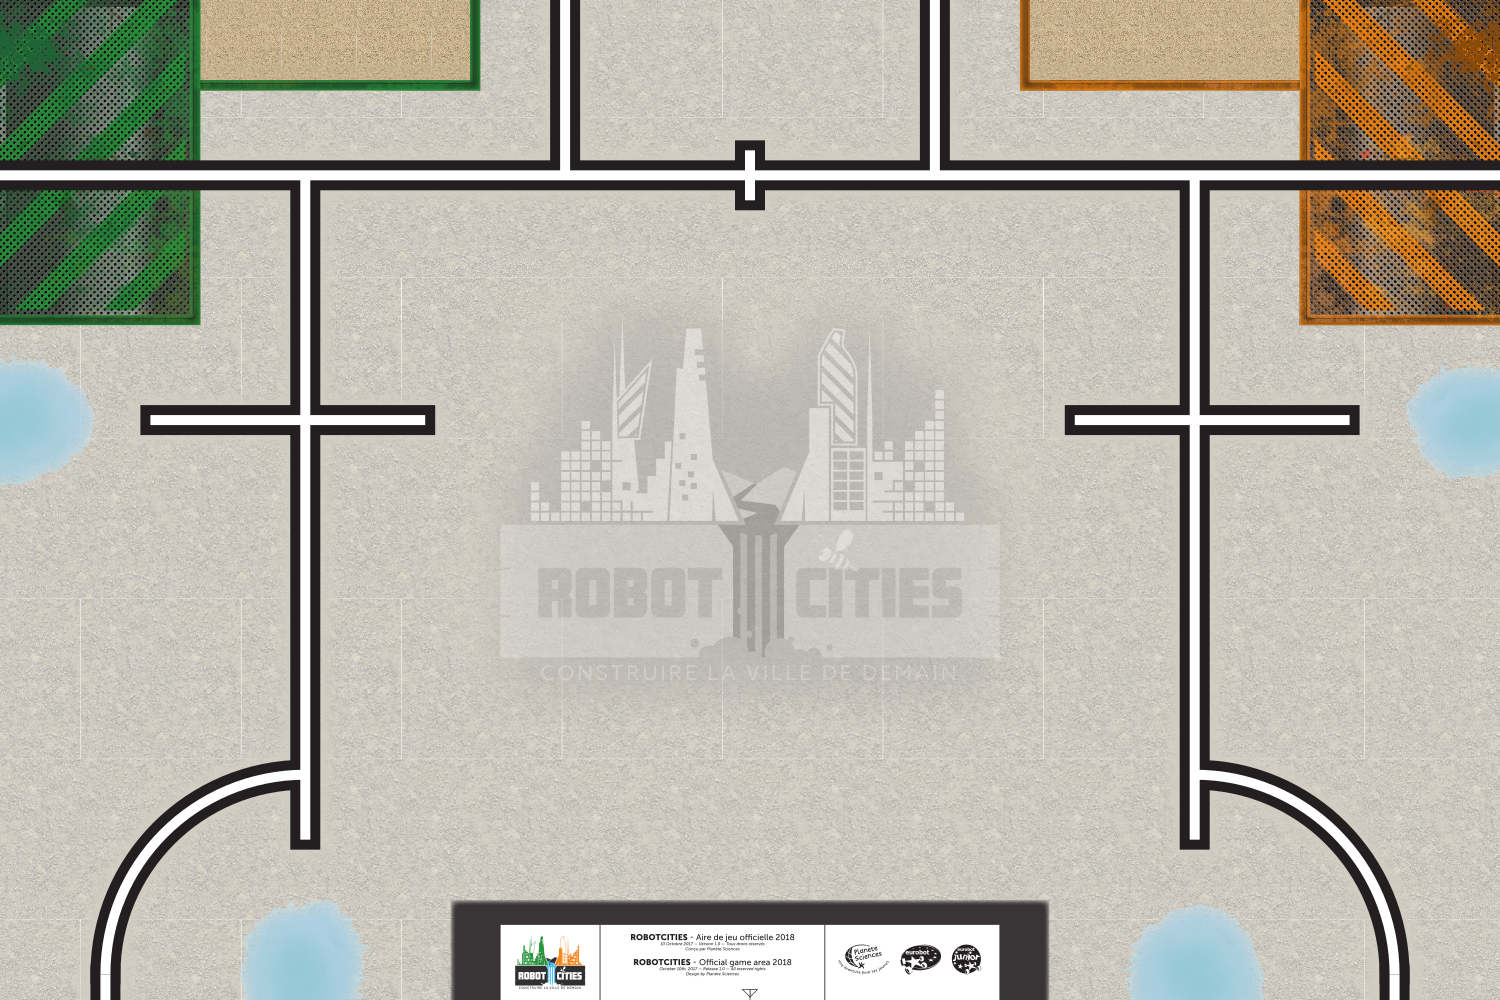
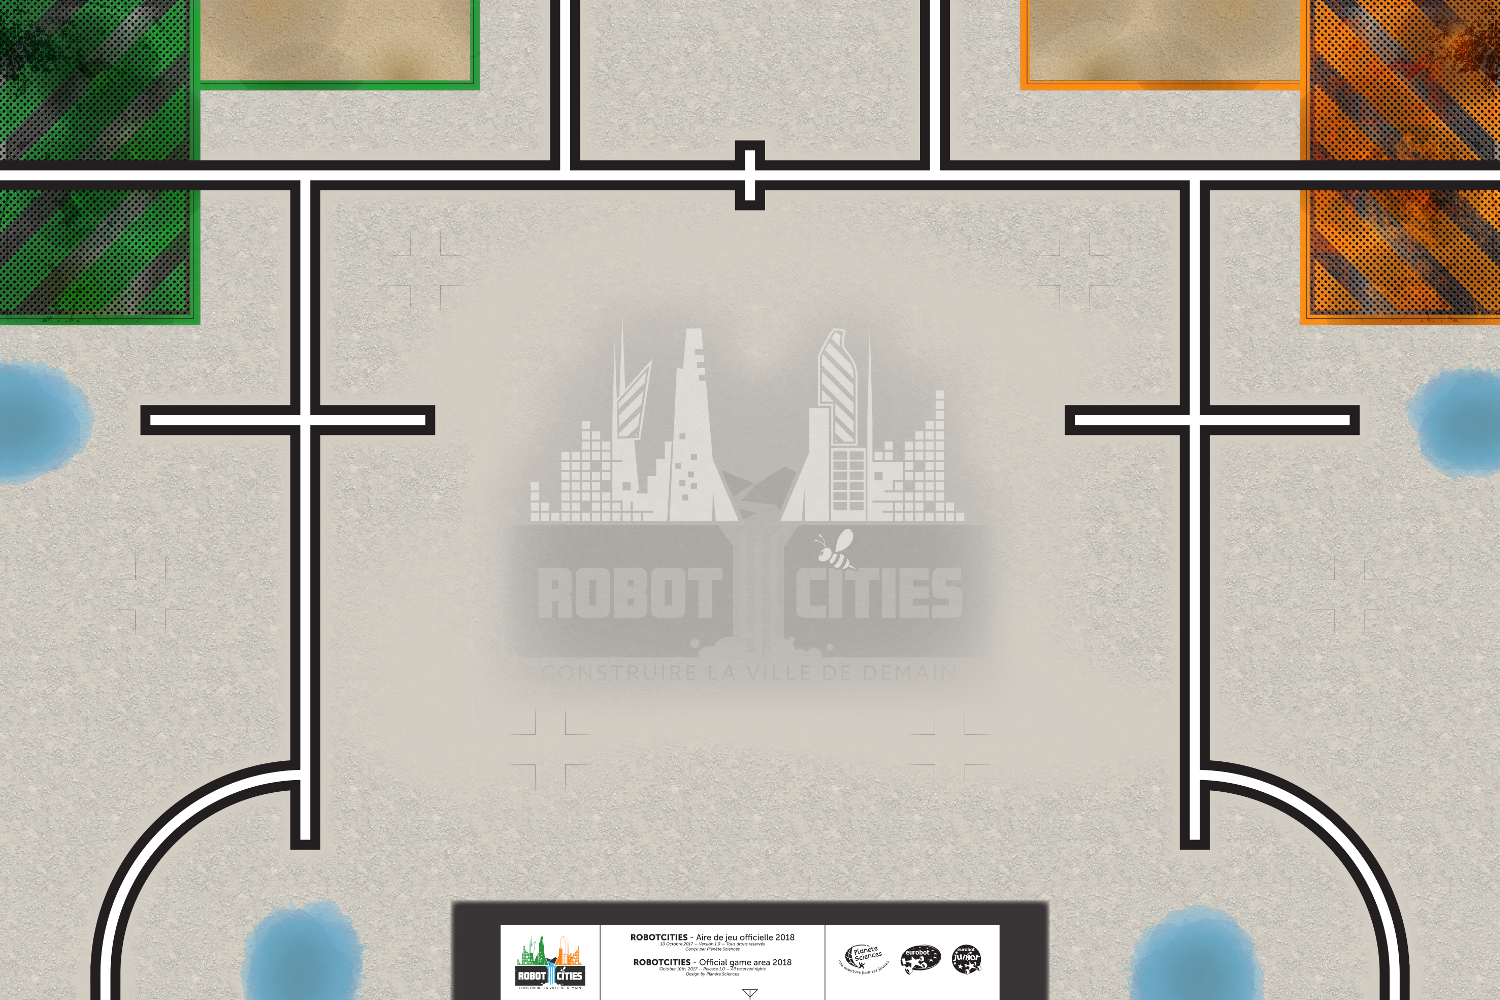
Graph: update map.png and remove the edge between start and bee

diff --git a/python/evolutek/lib/graph.py b/python/evolutek/lib/graph.py
@@ -195,7 +195,7 @@ def get_map(color):
 
     # Add nodes
     map.insert_node('start', 500, 2760, color)
-    map.insert_node('bee', 1600, 2600, color)
+    map.insert_node('bee', 1750, 2750, color)
     map.insert_node('construction', 350, 2390, color)
     map.insert_node('distrib1', 840, 2390, color)
     map.insert_node('distrib2', 1550, 2390, color)
@@ -209,7 +209,7 @@ def get_map(color):
     map.insert_node('distrib4', 1550, 610, color)
 
     # Add edges
-    map.insert_edges('start', ['construction', 'distrib1', 'distrib2', 'distrib4'])
+    map.insert_edges('start', ['construction', 'distrib1', 'distrib4'])
     map.insert_edges('bee', ['distrib2', 'inter_a', 'center_interrupter', 'center'])
     map.insert_edges('construction', ['distrib1', 'interrupteur', 'distrib2', 'center_interrupter'])
     map.insert_edges('distrib1', ['distrib2', 'inter_a', 'center', 'inter_b', 'distrib3'])
@@ -227,7 +227,7 @@ def get_map(color):
 def main():
   print('Test')
   map = get_map('orange')
-  curr_path = map.get_path('start', 'distrib3')
+  curr_path = map.get_path('start', 'bee')
   interface = Interface(map, curr_path)
 
 if __name__ == '__main__':
